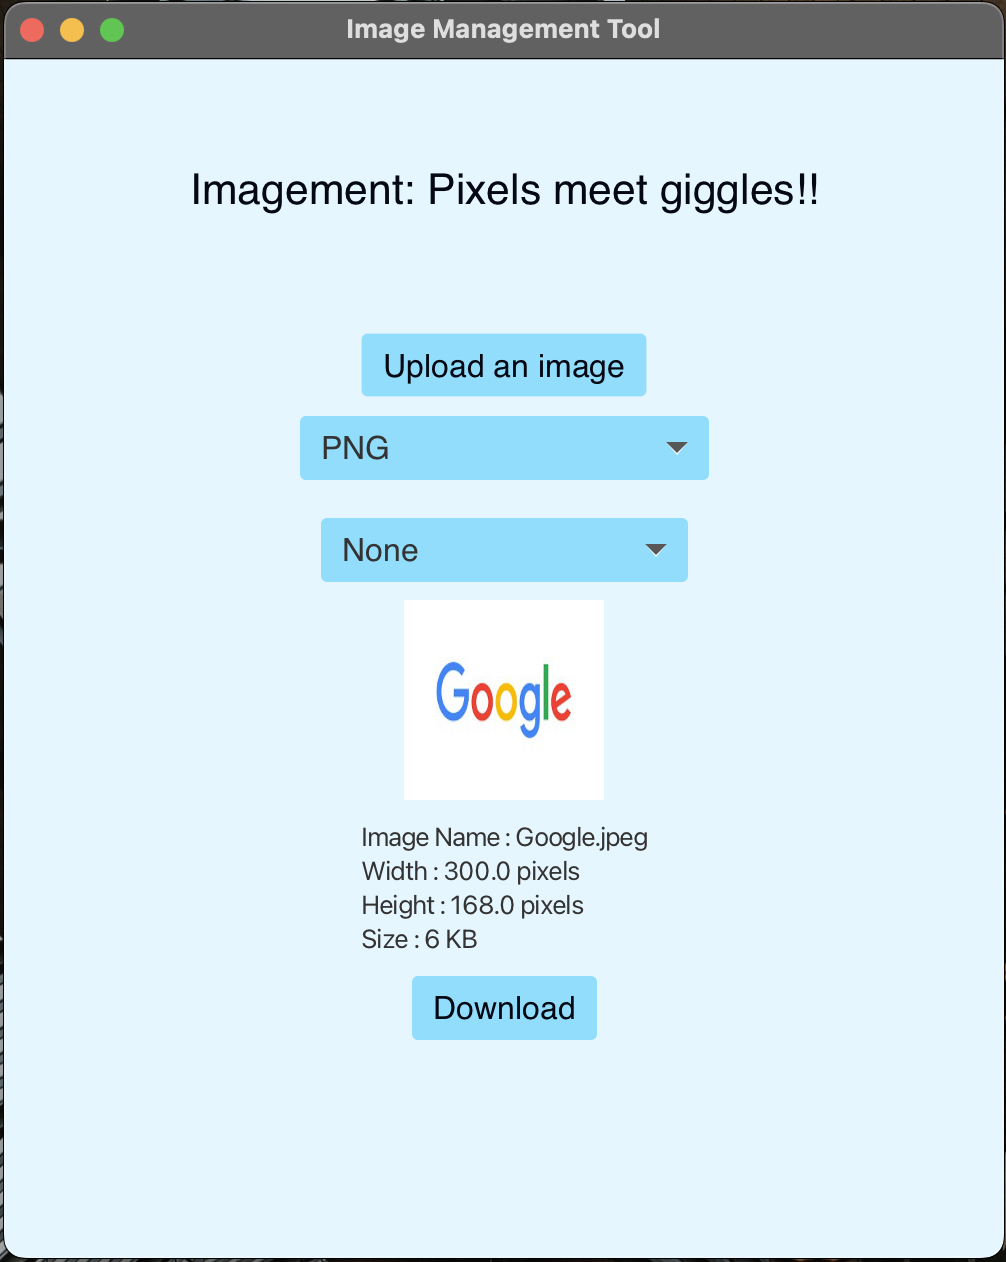
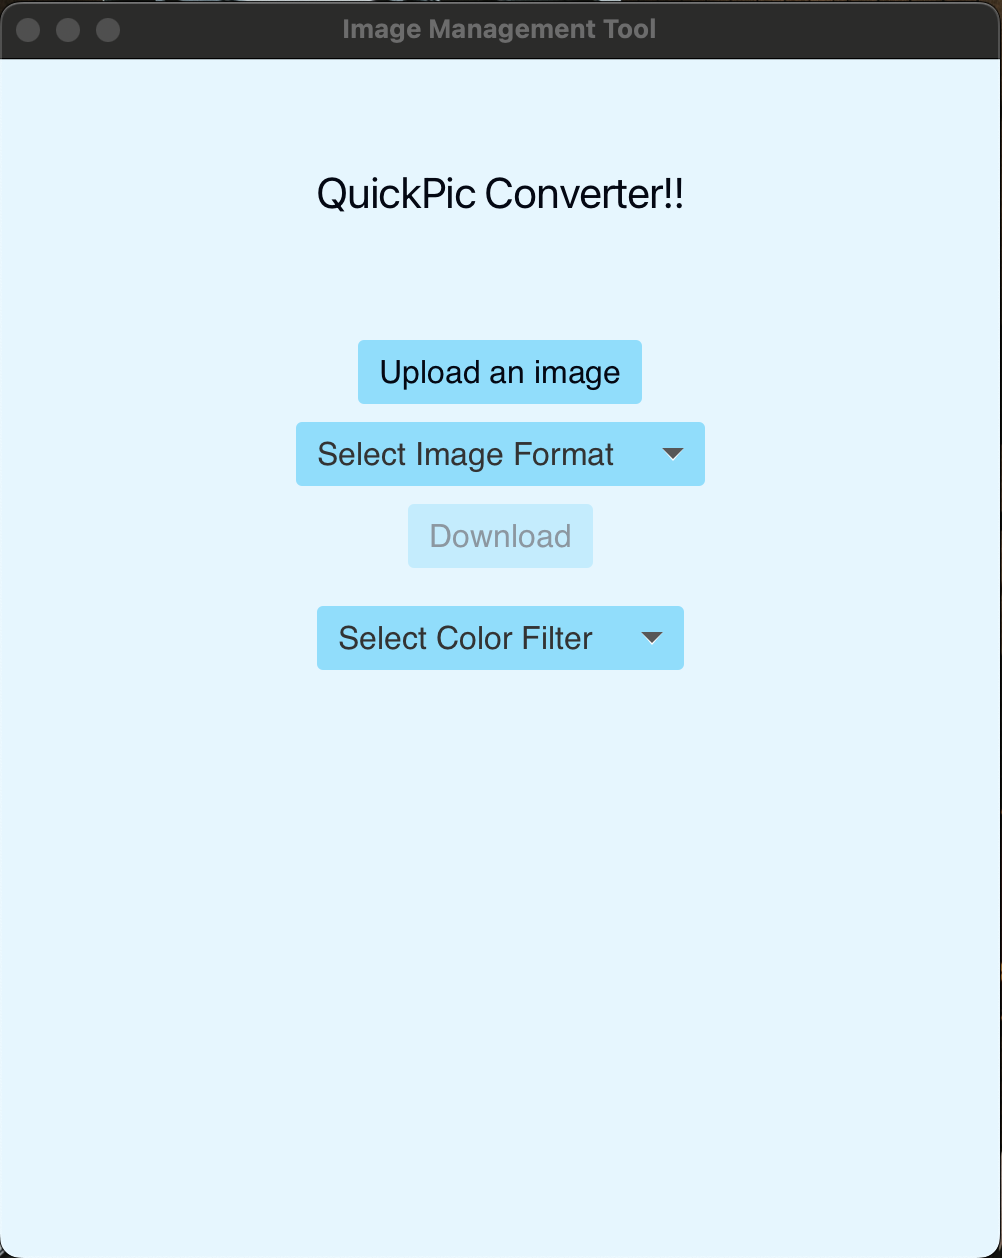
added test screenshots

Changed region(s): [[0.2784, 0.248, 0.7116, 0.837], [0.0, 0.0, 1.0, 1.0], [0.1856, 0.124, 0.8044, 0.186]]

diff --git a/FinalProject/src/main/java/com/example/finalprojectjava/ImageManagementTool.java b/FinalProject/src/main/java/com/example/finalprojectjava/ImageManagementTool.java
@@ -36,7 +36,7 @@ public class ImageManagementTool extends Application {
         stage.setTitle("Image Management Tool");
 
         // Set up the heading label
-        Label headingLabel1 = new Label("\n\nImagement: Pixels meet giggles!!");
+        Label headingLabel1 = new Label("\n\nQuickPic Converter!!");
         headingLabel1.setStyle("-fx-text-fill: #040813; -fx-font-size: 16pt; -fx-font-family: Helvetica;");
         HBox headingBox = new HBox();
         headingBox.setAlignment(Pos.TOP_CENTER);
